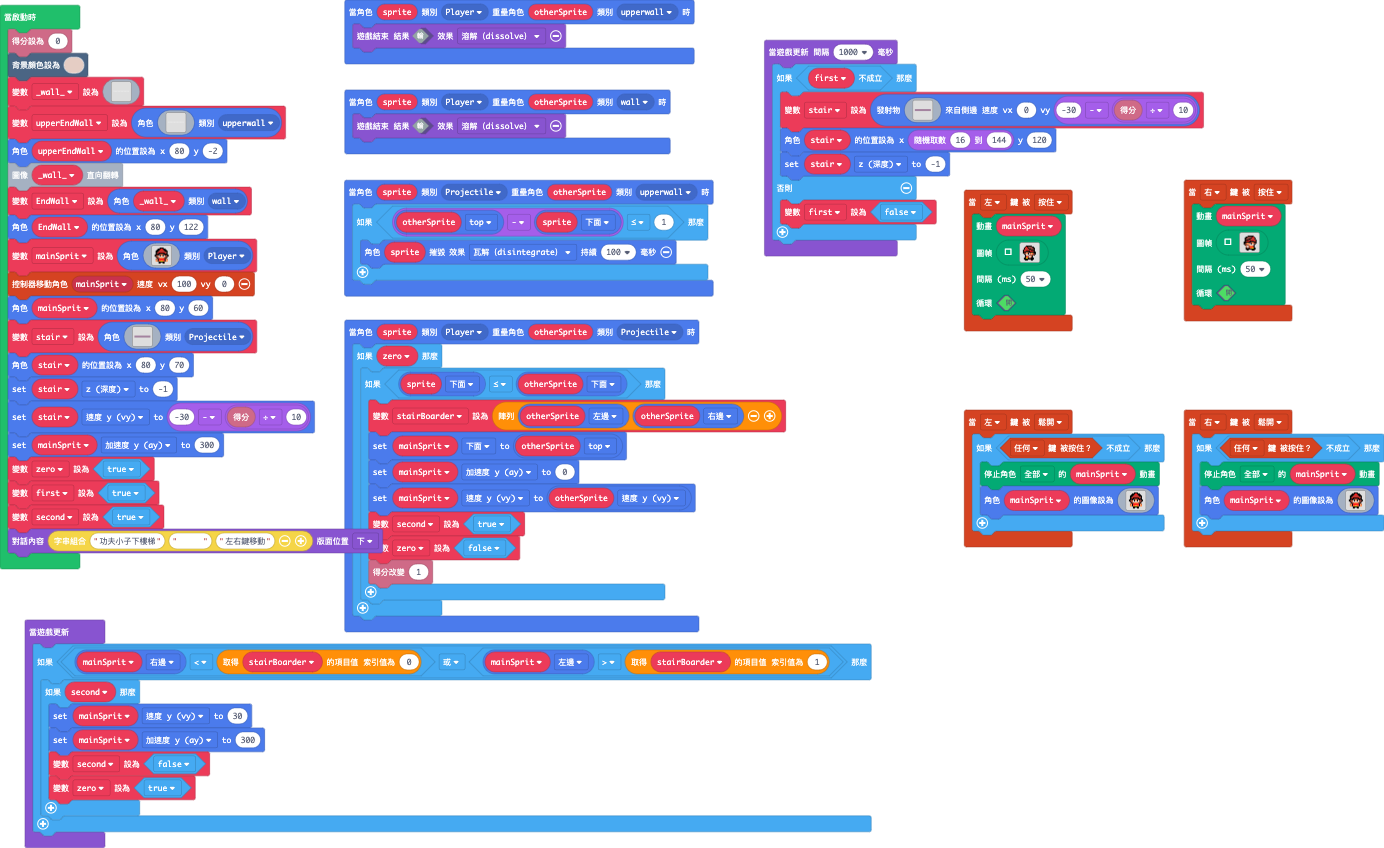
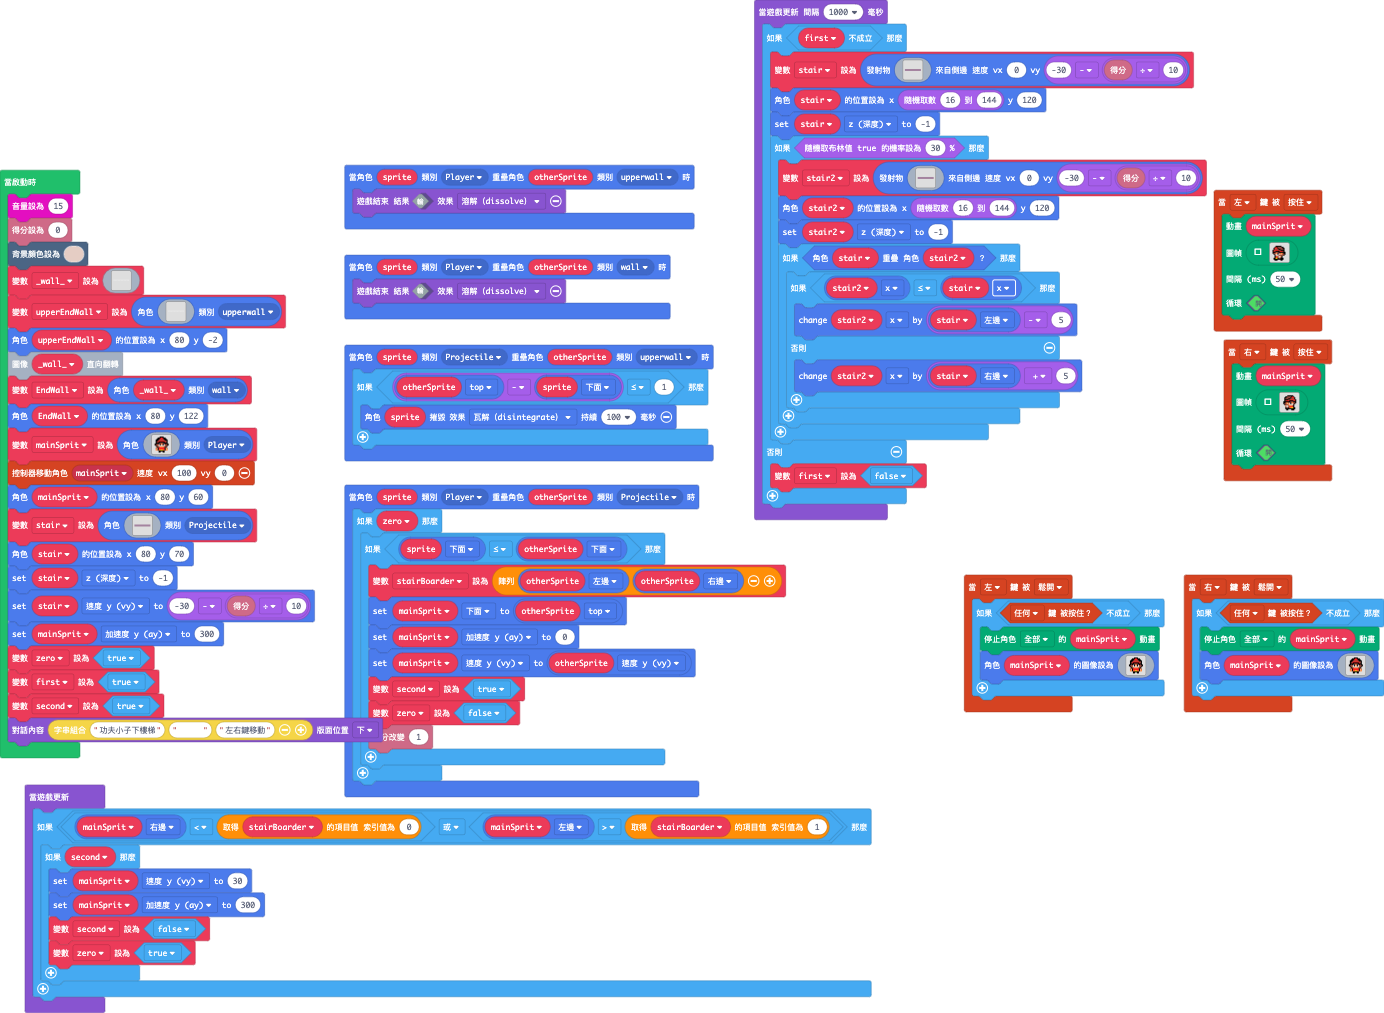
Get Chance to launch two stair.

diff --git a/main.ts b/main.ts
@@ -224,10 +224,12 @@ controller.right.onEvent(ControllerButtonEvent.Released, function () {
 `)
     }
 })
+let stair2: Sprite = null
 let stairBoarder: number[] = []
 let second = false
 let zero = false
 let mainSprit: Sprite = null
+music.setVolume(15)
 info.setScore(0)
 scene.setBackgroundColor(13)
 let _wall_ = img`
@@ -316,6 +318,23 @@ b b b b b b b b b b b b b b b b b b b b b b b b b b b b b b b b
 `, 0, -30 - info.score() / 10)
         stair.setPosition(Math.randomRange(16, 144), 120)
         stair.z = -1
+        if (Math.percentChance(30)) {
+            stair2 = sprites.createProjectileFromSide(img`
+b b b b b b b b b b b b b b b b b b b b b b b b b b b b b b b b 
+b b b b b b b b b b b b b b b b b b b b b b b b b b b b b b b b 
+b b b b b b b b b b b b b b b b b b b b b b b b b b b b b b b b 
+b b b b b b b b b b b b b b b b b b b b b b b b b b b b b b b b 
+`, 0, -30 - info.score() / 10)
+            stair2.setPosition(Math.randomRange(16, 144), 120)
+            stair2.z = -1
+            if (stair.overlapsWith(stair2)) {
+                if (stair2.x <= stair.x) {
+                    stair2.x += stair.left - 5
+                } else {
+                    stair2.x += stair.right + 5
+                }
+            }
+        }
     } else {
         first = false
     }
